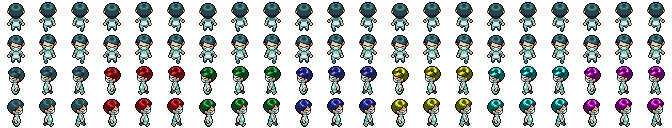
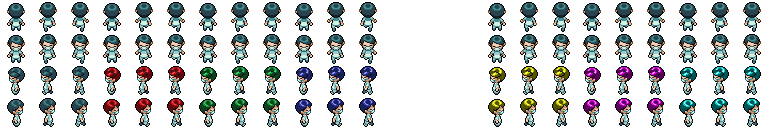
주인공 기능 추가 - 두가지 색이 섞이는 기능 추가
두가지 색이 섞이는 기능을 추가하였다.

diff --git a/Code/stage1_state.py b/Code/stage1_state.py
@@ -28,14 +28,14 @@ tile_Setting = [['■', 0, 0, '■', 0, 0, 0, 0, 0, 0, 0, 0, 0, 0, 0, 0, 0, 0, 0
                 ['■', 0, 0, '■', 0, 0, 0, 0, 0, 0, 0, 0, 0, 0, 0, 0, 0, 0, 0, 0, 0, 0, 0, 0, 0],
                 ['■', 0, 0, '■', 0, 0, 0, 0, 0, 0, 0, 0, 0, 0, 0, 0, 0, 0, 0, 0, 0, 0, 0, 0, 0],
                 ['■', 0, 0, '■', '■', '■', 0, '■', '■', 0, 0, '■', '■', '■', '■', 0, 0, 0, 0, 0, 0, 0, 0, 0, 0],
-                ['■', 'Rj', 0, 0, 'Rp', 0, 0, 0, 0, 0, 'Bp', 'Bt', 0, 'Np', '■', 0, 0, 0, 0, 0, 0, 0, 0, 0, 0],
+                ['■', 'Mj', 0, 0, 'Rp', 0, 0, 0, 0, 0, 'Bp', 'Bt', 0, 'Np', '■', 0, 0, 0, 0, 0, 0, 0, 0, 0, 0],
                 ['■', '■', '■', '■', '■', '■', '■', '■', '■', 0, '■', '■', '■', '■', '■', 0, 0, 0, 0, 0, 0, 0, 0, 0, '■'],
                 ['■', 0, 0, 0, 0, 0, 0, 0, '■', 0, '■', 0, 0, 0, 0, 0, 0, 0, 0, 0, 0, 0, 0, 0, '■'],
                 ['■', 0, 0, 0, 0, 0, 0, 0, '■', 0, '■', 0, 0, 0, 0, 0, 0, 0, 0, 0, 0, 0, 0, 0, '■'],
                 ['■', 0, 0, 0, 0, 0, 0, 0, '■', 0, '■', 0, 0, 0, 0, 0, 0, 0, 0, 0, 0, 0, 0, 0, '■'],
                 ['■', 0, 0, 0, 0, 0, 0, 0, '■', 0, '■', 0, 0, 0, 0, 0, 0, 0, 0, 0, 0, 0, 0, 0, '■'],
                 ['■', '■', '■', '■', '■', '■', '■', '■', '■', 0, '■', '■', '■', '■', '■', '■', '■', '■', '■', '■', '■', '■', '■', '■', '■'],
-                ['■', 0, 0, 'Rp', 0, 'Rg', 0, 'Gp', 0, 'Gj', 0, 0, 0, 0, 0, 0, 0, 0, 0, 0, 0, 0, 0, 0, 0],
+                ['■', 0, 0, 'Rp', 0, 'Rg', 0, 'Gp', 0, 'Yj', 0, 0, 0, 0, 0, 0, 0, 0, 0, 0, 0, 0, 0, 0, 0],
                 ['■', '■', '■', '■', '■', '■', '■', '■', '■', '■', '■', '■', '■', '■', '■', '■', '■', '■', '■', '■', '■', '■', '■', '■', '■']
                 ]
 
@@ -113,11 +113,11 @@ def enter():
                 object[i][j].color = 5
                 object[i][j].kind = 2
                 object[i][j].isDraw = True
-            elif tile_Setting[i][j] == 'Cg':
+            elif tile_Setting[i][j] == 'Mg':
                 object[i][j].color = 6
                 object[i][j].kind = 2
                 object[i][j].isDraw = True
-            elif tile_Setting[i][j] == 'Mg':
+            elif tile_Setting[i][j] == 'Cg':
                 object[i][j].color = 7
                 object[i][j].kind = 2
                 object[i][j].isDraw = True
@@ -137,11 +137,11 @@ def enter():
                 object[i][j].color = 5
                 object[i][j].kind = 1
                 object[i][j].isDraw = True
-            elif tile_Setting[i][j] == 'Cj':
+            elif tile_Setting[i][j] == 'Mj':
                 object[i][j].color = 6
                 object[i][j].kind = 1
                 object[i][j].isDraw = True
-            elif tile_Setting[i][j] == 'Mj':
+            elif tile_Setting[i][j] == 'Cj':
                 object[i][j].color = 7
                 object[i][j].kind = 1
                 object[i][j].isDraw = True
@@ -161,11 +161,11 @@ def enter():
                 object[i][j].color = 5
                 object[i][j].kind = 0
                 object[i][j].isDraw = True
-            elif tile_Setting[i][j] == 'Ct':
+            elif tile_Setting[i][j] == 'Mt':
                 object[i][j].color = 6
                 object[i][j].kind = 0
                 object[i][j].isDraw = True
-            elif tile_Setting[i][j] == 'Mt':
+            elif tile_Setting[i][j] == 'Ct':
                 object[i][j].color = 7
                 object[i][j].kind = 0
                 object[i][j].isDraw = True
@@ -223,10 +223,10 @@ def update():
                     item[i][j].isDraw = False
                     if item[i][j].kind == 1:
                         potion_cnt -= 1
-                    if item[i][j].color == 4:
+                    if item[i][j].color == 4 or item[i][j].color == 0:
                         terra.color = 0
                     else:
-                        terra.color = item[i][j].color
+                        terra.color_change(item[i][j].color)
             if object[i][j].isDraw:
                 object[i][j].update(terra)
                 if object[i][j].kind == 1 and collide(terra, object[i][j]):

diff --git a/Code/stage2_state.py b/Code/stage2_state.py
@@ -113,11 +113,11 @@ def enter():
                 object[i][j].color = 5
                 object[i][j].kind = 2
                 object[i][j].isDraw = True
-            elif tile_Setting[i][j] == 'Cg':
+            elif tile_Setting[i][j] == 'Mg':
                 object[i][j].color = 6
                 object[i][j].kind = 2
                 object[i][j].isDraw = True
-            elif tile_Setting[i][j] == 'Mg':
+            elif tile_Setting[i][j] == 'Cg':
                 object[i][j].color = 7
                 object[i][j].kind = 2
                 object[i][j].isDraw = True
@@ -137,11 +137,11 @@ def enter():
                 object[i][j].color = 5
                 object[i][j].kind = 1
                 object[i][j].isDraw = True
-            elif tile_Setting[i][j] == 'Cj':
+            elif tile_Setting[i][j] == 'Mj':
                 object[i][j].color = 6
                 object[i][j].kind = 1
                 object[i][j].isDraw = True
-            elif tile_Setting[i][j] == 'Mj':
+            elif tile_Setting[i][j] == 'Cj':
                 object[i][j].color = 7
                 object[i][j].kind = 1
                 object[i][j].isDraw = True
@@ -161,11 +161,11 @@ def enter():
                 object[i][j].color = 5
                 object[i][j].kind = 0
                 object[i][j].isDraw = True
-            elif tile_Setting[i][j] == 'Ct':
+            elif tile_Setting[i][j] == 'Mt':
                 object[i][j].color = 6
                 object[i][j].kind = 0
                 object[i][j].isDraw = True
-            elif tile_Setting[i][j] == 'Mt':
+            elif tile_Setting[i][j] == 'Ct':
                 object[i][j].color = 7
                 object[i][j].kind = 0
                 object[i][j].isDraw = True
@@ -220,10 +220,10 @@ def update():
                     item[i][j].isDraw = False
                     if item[i][j].kind == 1:
                         potion_cnt -= 1
-                    if item[i][j].color == 4:
+                    if item[i][j].color == 4 or item[i][j].color == 0:
                         terra.color = 0
                     else:
-                        terra.color = item[i][j].color
+                        terra.color_change(item[i][j].color)
             if object[i][j].isDraw:
                 object[i][j].update(terra)
                 if object[i][j].kind == 1 and collide(terra, object[i][j]):

diff --git a/Code/terra.py b/Code/terra.py
@@ -110,7 +110,7 @@ class Terra:
     CHARACTER_HEIGHT = 32
 
     def __init__(self):
-        self.image = load_image('Resource\\Character\\Scientists1.png')
+        self.image = load_image('Resource\\Character\\Scientists2.png')
         self.x, self.y = 48, 48
         self.frame = 0
         self.dir = 0
@@ -163,3 +163,9 @@ class Terra:
 
     def drink_potion(self):
         self.drink_sound.play()
+
+    def color_change(self, color):
+        if self.color == 0 or self.color >= 5:
+            self.color = color
+        else:
+            self.color = self.color + color + 2
